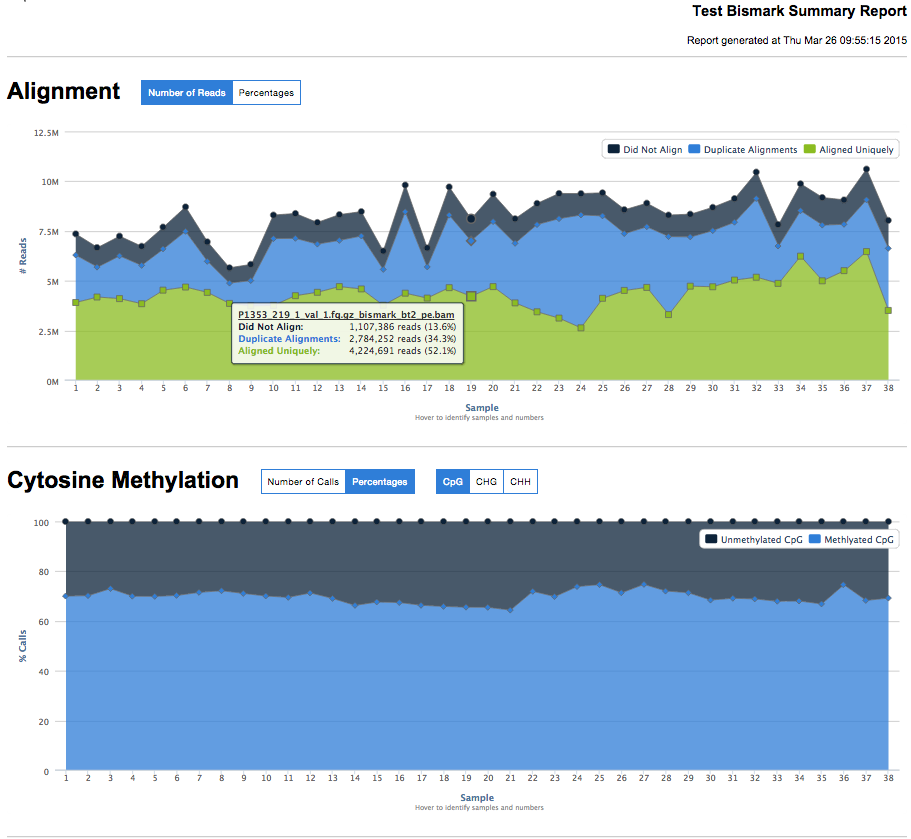
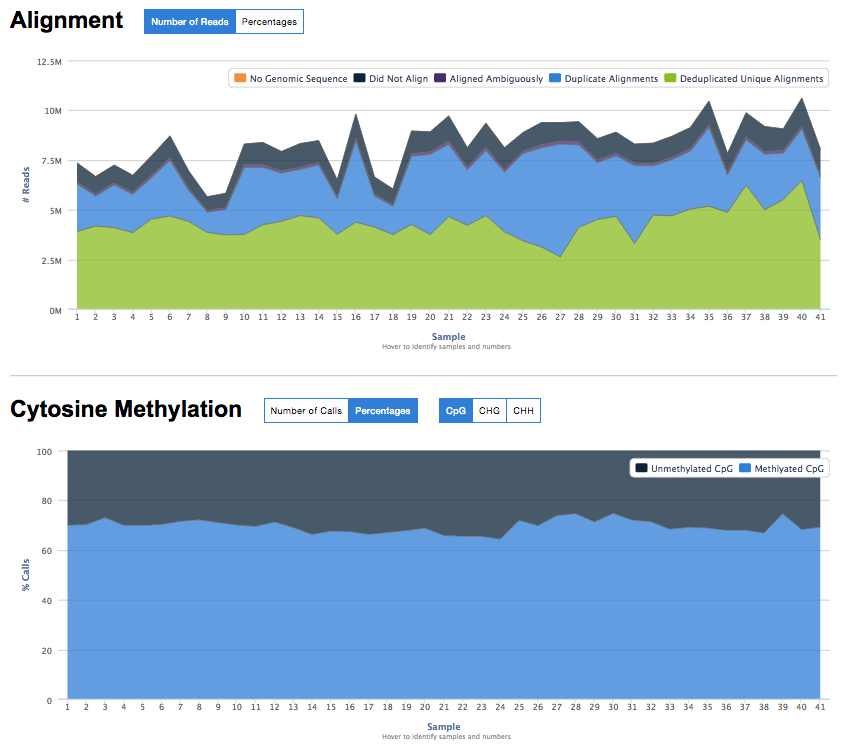
Updated bismark summary report examples

Changed region(s): [[0.0, 0.0, 1.0, 1.0], [0.0, 0.2749, 0.0309, 0.336], [0.0309, 0.1527, 0.0618, 0.1833]]

diff --git a/examples/bismark_summary_report.html b/examples/bismark_summary_report.html
@@ -2,7 +2,7 @@
 <html>
 <head>
 	<meta http-equiv="content-type" content="text/html; charset=UTF-8">
-	<title>Bismark Project Summary Report</title>
+	<title>Bismark Project Summary Report - Bismark Summary Report</title>
 	<style type="text/css">
 		body {
 			font-family: Arial, sans-serif;
@@ -11,7 +11,6 @@
 		}
 		.container {
 			margin:0 auto;
-			max-width:1200px;
 		}
 		.header h1,
 		.header img {
@@ -63,7 +62,7 @@
 			color:#999;
 		}
 
-		.switch_group {
+        .switch_group {
 			margin-left:20px;
 			display:inline-block;
 			line-height: 1em;
@@ -108,11 +107,11 @@
 		rn(e.points,function(s){var o=s.plotY,u=s.graphic;if(o!==W&&!isNaN(o)&&s.y!==null)i=s.shapeArgs,u?(pn(u),u.animate(t(i))):s.graphic=r[s.shapeType](i).attr(s.pointAttr[s.selected?"select":""]).add(e.group).shadow(n.shadow,null,n.stacking&&!n.borderRadius);else if(u)s.graphic=u.destroy()})},drawTracker:function(){var e=this,t=e.chart,n=t.pointer,r=e.options.cursor,i=r&&{cursor:r},s=function(n){var r=n.target,i;if(t.hoverSeries!==e)e.onMouseOver();for(;r&&!i;)i=r.point,r=r.parentNode;if(i!==W&&i!==t.hoverPoint)i.onMouseOver(n)};rn(e.points,function(e){if(e.graphic)e.graphic.element.point=e;if(e.dataLabel)e.dataLabel.element.point=e});e._hasTracking?e._hasTracking=!0:rn(e.trackerGroups,function(t){if(e[t]&&(e[t].addClass("highcharts-tracker").on("mouseover",s).on("mouseout",function(e){n.onTrackerMouseOut(e)}).css(i),mt))e[t].on("touchstart",s)})},alignDataLabel:function(e,n,r,i,s){var o=this.chart,u=o.inverted,a=e.dlBox||e.shapeArgs,f=e.below||e.plotY>p(this.translatedThreshold,o.plotSizeY),l=p(r.inside,!!this.options.stacking);if(a&&(i=t(a),u&&(i={x:o.plotWidth-i.y-i.height,y:o.plotHeight-i.x-i.width,width:i.height,height:i.width}),!l))u?(i.x+=f?0:i.width,i.width=0):(i.y+=f?i.height:0,i.height=0);r.align=p(r.align,!u||l?"center":f?"right":"left");r.verticalAlign=p(r.verticalAlign,u||l?"middle":f?"top":"bottom");En.prototype.alignDataLabel.call(this,e,n,r,i,s)},animate:function(e){var t=this.yAxis,n=this.options,r=this.chart.inverted,i={};if(ht)e?(i.scaleY=.001,e=Y(t.pos+t.len,G(t.pos,t.toPixels(n.threshold))),r?i.translateX=e-t.len:i.translateY=e,this.group.attr(i)):(i.scaleY=1,i[r?"translateX":"translateY"]=t.pos,this.group.animate(i,this.options.animation),this.animate=null)},remove:function(){var e=this,t=e.chart;t.hasRendered&&rn(t.series,function(t){if(t.type===e.type)t.isDirty=!0});En.prototype.remove.apply(e,arguments)}});Gt.column=gn;dn.bar=t(dn.column);yn=m(gn,{type:"bar",inverted:!0});Gt.bar=yn;dn.scatter=t(Yt,{lineWidth:0,tooltip:{headerFormat:'<span style="font-size: 10px; color:{series.color}">{series.name}</span><br/>',pointFormat:"x: <b>{point.x}</b><br/>y: <b>{point.y}</b><br/>",followPointer:!0},stickyTracking:!1});yn=m(En,{type:"scatter",sorted:!1,requireSorting:!1,noSharedTooltip:!0,trackerGroups:["markerGroup"],drawTracker:gn.prototype.drawTracker,setTooltipPoints:Nt});Gt.scatter=yn;dn.pie=t(Yt,{borderColor:"#FFFFFF",borderWidth:1,center:[null,null],clip:!1,colorByPoint:!0,dataLabels:{distance:30,enabled:!0,formatter:function(){return this.point.name}},ignoreHiddenPoint:!0,legendType:"point",marker:null,size:null,showInLegend:!1,slicedOffset:10,states:{hover:{brightness:.1,shadow:!1}},stickyTracking:!1,tooltip:{followPointer:!0}});Yt={type:"pie",isCartesian:!1,pointClass:m(wn,{init:function(){wn.prototype.init.apply(this,arguments);var t=this,n;if(t.y<0)t.y=null;e(t,{visible:t.visible!==!1,name:p(t.name,"Slice")});n=function(e){t.slice(e.type==="select")};an(t,"select",n);an(t,"unselect",n);return t},setVisible:function(e){var t=this,n=t.series,r=n.chart,i;t.visible=t.options.visible=e=e===W?!t.visible:e;n.options.data[nn(t,n.data)]=t.options;i=e?"show":"hide";rn(["graphic","dataLabel","connector","shadowGroup"],function(e){if(t[e])t[e][i]()});t.legendItem&&r.legend.colorizeItem(t,e);if(!n.isDirty&&n.options.ignoreHiddenPoint)n.isDirty=!0,r.redraw()},slice:function(e,t,n){var r=this.series;D(n,r.chart);p(t,!0);this.sliced=this.options.sliced=e=l(e)?e:!this.sliced;r.options.data[nn(this,r.data)]=this.options;e=e?this.slicedTranslation:{translateX:0,translateY:0};this.graphic.animate(e);this.shadowGroup&&this.shadowGroup.animate(e)}}),requireSorting:!1,noSharedTooltip:!0,trackerGroups:["group","dataLabelsGroup"],pointAttrToOptions:{stroke:"borderColor","stroke-width":"borderWidth",fill:"color"},getColor:Nt,animate:function(e){var t=this,n=t.points,r=t.startAngleRad;if(!e)rn(n,function(e){var n=e.graphic,e=e.shapeArgs;n&&(n.attr({r:t.center[3]/2,start:r,end:r}),n.animate({r:e.r,start:e.start,end:e.end},t.options.animation))}),t.animate=null},setData:function(e,t){En.prototype.setData.call(this,e,!1);this.processData();this.generatePoints();p(t,!0)&&this.chart.redraw()},generatePoints:function(){var e,t=0,n,r,i,s=this.options.ignoreHiddenPoint;En.prototype.generatePoints.call(this);n=this.points;r=n.length;for(e=0;e<r;e++)i=n[e],t+=s&&!i.visible?0:i.y;this.total=t;for(e=0;e<r;e++)i=n[e],i.percentage=i.y/t*100,i.total=t},getCenter:function(){var e=this.options,t=this.chart,r=2*(e.slicedOffset||0),i,s=t.plotWidth-2*r,o=t.plotHeight-2*r,t=e.center,e=[p(t[0],"50%"),p(t[1],"50%"),e.size||"100%",e.innerSize||0],u=Y(s,o),a;return un(e,function(e,t){a=/%$/.test(e);i=t<2||t===2&&a;return(a?[s,o,u,u][t]*n(e)/100:e)+(i?r:0)})},translate:function(e){this.generatePoints();var t=0,n=this.options,r=n.slicedOffset,i=r+n.borderWidth,s,o,u,a=this.startAngleRad=nt/180*((n.startAngle||0)%360-90),f=this.points,l=2*nt,c=n.dataLabels.distance,n=n.ignoreHiddenPoint,h,p=f.length,d;if(!e)this.center=e=this.getCenter();this.getX=function(t,n){u=$.asin((t-e[1])/(e[2]/2+c));return e[0]+(n?-1:1)*et(u)*(e[2]/2+c)};for(h=0;h<p;h++){d=f[h];s=J((a+t*l)*1e3)/1e3;if(!n||d.visible)t+=d.percentage/100;o=J((a+t*l)*1e3)/1e3;d.shapeType="arc";d.shapeArgs={x:e[0],y:e[1],r:e[2]/2,innerR:e[3]/2,start:s,end:o};u=(o+s)/2;u>.75*l&&(u-=2*nt);d.slicedTranslation={translateX:J(et(u)*r),translateY:J(tt(u)*r)};s=et(u)*e[2]/2;o=tt(u)*e[2]/2;d.tooltipPos=[e[0]+s*.7,e[1]+o*.7];d.half=u<l/4?0:1;d.angle=u;i=Y(i,c/2);d.labelPos=[e[0]+s+et(u)*c,e[1]+o+tt(u)*c,e[0]+s+et(u)*i,e[1]+o+tt(u)*i,e[0]+s,e[1]+o,c<0?"center":d.half?"right":"left",u]}this.setTooltipPoints()},drawGraph:null,drawPoints:function(){var t=this,n=t.chart.renderer,r,i,s=t.options.shadow,o,u;if(s&&!t.shadowGroup)t.shadowGroup=n.g("shadow").add(t.group);rn(t.points,function(a){i=a.graphic;u=a.shapeArgs;o=a.shadowGroup;if(s&&!o)o=a.shadowGroup=n.g("shadow").add(t.shadowGroup);r=a.sliced?a.slicedTranslation:{translateX:0,translateY:0};o&&o.attr(r);i?i.animate(e(u,r)):a.graphic=i=n.arc(u).setRadialReference(t.center).attr(a.pointAttr[a.selected?"select":""]).attr({"stroke-linejoin":"round"}).attr(r).add(t.group).shadow(s,o);a.visible===!1&&a.setVisible(!1)})},drawDataLabels:function(){var e=this,t=e.data,n,r=e.chart,i=e.options.dataLabels,s=p(i.connectorPadding,10),o=p(i.connectorWidth,1),u=r.plotWidth,r=r.plotHeight,a,f,l=p(i.softConnector,!0),c=i.distance,h=e.center,d=h[2]/2,v=h[1],m=c>0,g,y,b,w,E=[[],[]],S,x,T,N,C,k=[0,0,0,0],A=function(e,t){return t.y-e.y},O=function(e,t){e.sort(function(e,n){return e.angle!==void 0&&(n.angle-e.angle)*t})};if(e.visible&&(i.enabled||e._hasPointLabels)){En.prototype.drawDataLabels.apply(e);rn(t,function(e){e.dataLabel&&E[e.half].push(e)});for(N=0;!w&&t[N];)w=t[N]&&t[N].dataLabel&&(t[N].dataLabel.getBBox().height||21),N++;for(N=2;N--;){var t=[],M=[],_=E[N],D=_.length,P;O(_,N-.5);if(c>0){for(C=v-d-c;C<=v+d+c;C+=w)t.push(C);y=t.length;if(D>y){n=[].concat(_);n.sort(A);for(C=D;C--;)n[C].rank=C;for(C=D;C--;)_[C].rank>=y&&_.splice(C,1);D=_.length}for(C=0;C<D;C++){n=_[C];b=n.labelPos;n=9999;var H,B;for(B=0;B<y;B++)H=Z(t[B]-b[1]),H<n&&(n=H,P=B);if(P<C&&t[C]!==null)P=C;else for(y<D-C+P&&t[C]!==null&&(P=y-D+C);t[P]===null;)P++;M.push({i:P,y:t[P]});t[P]=null}M.sort(A)}for(C=0;C<D;C++){n=_[C];b=n.labelPos;g=n.dataLabel;T=n.visible===!1?"hidden":"visible";n=b[1];if(c>0){if(y=M.pop(),P=y.i,x=y.y,n>x&&t[P+1]!==null||n<x&&t[P-1]!==null)x=n}else x=n;S=i.justify?h[0]+(N?-1:1)*(d+c):e.getX(P===0||P===t.length-1?n:x,N);g._attr={visibility:T,align:b[6]};g._pos={x:S+i.x+({left:s,right:-s}[b[6]]||0),y:x+i.y-10};g.connX=S;g.connY=x;if(this.options.size===null)y=g.width,S-y<s?k[3]=G(J(y-S+s),k[3]):S+y>u-s&&(k[1]=G(J(S+y-u+s),k[1])),x-w/2<0?k[0]=G(J(-x+w/2),k[0]):x+w/2>r&&(k[2]=G(J(x+w/2-r),k[2]))}}if(L(k)===0||this.verifyDataLabelOverflow(k))this.placeDataLabels(),m&&o&&rn(this.points,function(t){a=t.connector;b=t.labelPos;if((g=t.dataLabel)&&g._pos)T=g._attr.visibility,S=g.connX,x=g.connY,f=l?["M",S+(b[6]==="left"?5:-5),x,"C",S,x,2*b[2]-b[4],2*b[3]-b[5],b[2],b[3],"L",b[4],b[5]]:["M",S+(b[6]==="left"?5:-5),x,"L",b[2],b[3],"L",b[4],b[5]],a?(a.animate({d:f}),a.attr("visibility",T)):t.connector=a=e.chart.renderer.path(f).attr({"stroke-width":o,stroke:i.connectorColor||t.color||"#606060",visibility:T}).add(e.group);else if(a)t.connector=a.destroy()})}},verifyDataLabelOverflow:function(e){var t=this.center,n=this.options,r=n.center,i=n=n.minSize||80,s;r[0]!==null?i=G(t[2]-G(e[1],e[3]),n):(i=G(t[2]-e[1]-e[3],n),t[0]+=(e[3]-e[1])/2);r[1]!==null?i=G(Y(i,t[2]-G(e[0],e[2])),n):(i=G(Y(i,t[2]-e[0]-e[2]),n),t[1]+=(e[0]-e[2])/2);i<t[2]?(t[2]=i,this.translate(t),rn(this.points,function(e){if(e.dataLabel)e.dataLabel._pos=null}),this.drawDataLabels()):s=!0;return s},placeDataLabels:function(){rn(this.points,function(e){var e=e.dataLabel,t;if(e)(t=e._pos)?(e.attr(e._attr),e[e.moved?"animate":"attr"](t),e.moved=!0):e&&e.attr({y:-999})})},alignDataLabel:Nt,drawTracker:gn.prototype.drawTracker,drawLegendSymbol:Zt.prototype.drawLegendSymbol,getSymbol:Nt};Yt=m(En,Yt);Gt.pie=Yt;e(Highcharts,{Axis:I,Chart:z,Color:vn,Legend:U,Pointer:R,Point:wn,Tick:B,Tooltip:q,Renderer:vt,Series:En,SVGElement:H,SVGRenderer:mn,arrayMin:k,arrayMax:L,charts:Ct,dateFormat:Et,format:w,pathAnim:xt,getOptions:function(){return wt},hasBidiBug:pt,isTouchDevice:lt,numberFormat:g,seriesTypes:Gt,setOptions:function(e){wt=t(wt,e);P();return wt},addEvent:an,removeEvent:fn,createElement:v,discardElement:O,css:d,each:rn,extend:e,map:un,merge:t,pick:p,splat:h,extendClass:m,pInt:n,wrap:b,svg:ht,canvas:dt,vml:!ht&&!dt,product:"Highcharts",version:"3.0.4"})})()
 	</script>
 	<script type='text/javascript'>
-		// From http://stackoverflow.com/questions/2901102/how-to-print-a-number-with-commas-as-thousands-separators-in-javascript
+    	// From http://stackoverflow.com/questions/2901102/how-to-print-a-number-with-commas-as-thousands-separators-in-javascript
     	function numberWithCommas(x) {
     		return x.toString().replace(/\B(?=(\d{3})+(?!\d))/g, ",");
     	}
-
+    	// From http://stackoverflow.com/questions/18485939/highcharts-change-column-stacking-on-click/18486302
     	$(function () {
     		$('.switch_group button').click(function(e){
     			e.preventDefault();
@@ -149,15 +148,15 @@
 				}
     		});
 
-
-			// Plot setup
-			var plot_colors = ['#0d233a', '#2f7ed8', '#8bbc21', '#910000', '#1aadce', '#492970', '#f28f43', '#77a1e5', '#c42525', '#a6c96a'];
-			var num_samples = 38;
+		    // Plot setup
+			var alignment_plot_colors = ['#f28f43', '#0d233a', '#492970', '#2f7ed8', '#8bbc21'];
+			var meth_plot_colors = ['#0d233a', '#2f7ed8', '#8bbc21', '#1aadce', '#910000', '#492970'];
+			var num_samples = 41;
 
 			// Alignment Plot
 			var aln_x_index = num_samples * -1;
 			var alignment_plot_options = {
-				colors: plot_colors,
+				colors: alignment_plot_colors,
 				chart: {
 					type: 'area',
 					events: {
@@ -184,7 +183,7 @@
 							return aln_x_index;
 						}
 					},
-					categories: [ 'P1000_103_1_val_1.fq.gz_bismark_bt2_pe.bam', 'P1000_104_1_val_1.fq.gz_bismark_bt2_pe.bam', 'P1000_105_1_val_1.fq.gz_bismark_bt2_pe.bam', 'P1000_106_1_val_1.fq.gz_bismark_bt2_pe.bam', 'P1000_107_1_val_1.fq.gz_bismark_bt2_pe.bam', 'P1000_108_1_val_1.fq.gz_bismark_bt2_pe.bam', 'P1000_110_1_val_1.fq.gz_bismark_bt2_pe.bam', 'P1000_112_1_val_1.fq.gz_bismark_bt2_pe.bam', 'P1000_113_1_val_1.fq.gz_bismark_bt2_pe.bam', 'P1000_114_1_val_1.fq.gz_bismark_bt2_pe.bam', 'P1000_117_1_val_1.fq.gz_bismark_bt2_pe.bam', 'P1000_120_1_val_1.fq.gz_bismark_bt2_pe.bam', 'P1000_121_1_val_1.fq.gz_bismark_bt2_pe.bam', 'P1000_201_1_val_1.fq.gz_bismark_bt2_pe.bam', 'P1000_202_1_val_1.fq.gz_bismark_bt2_pe.bam', 'P1000_203_1_val_1.fq.gz_bismark_bt2_pe.bam', 'P1000_204_1_val_1.fq.gz_bismark_bt2_pe.bam', 'P1000_217_1_val_1.fq.gz_bismark_bt2_pe.bam', 'P1000_219_1_val_1.fq.gz_bismark_bt2_pe.bam', 'P1000_222_1_val_1.fq.gz_bismark_bt2_pe.bam', 'P1000_223_1_val_1.fq.gz_bismark_bt2_pe.bam', 'P1000_301_1_val_1.fq.gz_bismark_bt2_pe.bam', 'P1000_302_1_val_1.fq.gz_bismark_bt2_pe.bam', 'P1000_305_1_val_1.fq.gz_bismark_bt2_pe.bam', 'P1000_306_1_val_1.fq.gz_bismark_bt2_pe.bam', 'P1000_307_1_val_1.fq.gz_bismark_bt2_pe.bam', 'P1000_308_1_val_1.fq.gz_bismark_bt2_pe.bam', 'P1000_309_1_val_1.fq.gz_bismark_bt2_pe.bam', 'P1000_310_1_val_1.fq.gz_bismark_bt2_pe.bam', 'P1000_403_1_val_1.fq.gz_bismark_bt2_pe.bam', 'P1000_404_1_val_1.fq.gz_bismark_bt2_pe.bam', 'P1000_405_1_val_1.fq.gz_bismark_bt2_pe.bam', 'P1000_406_1_val_1.fq.gz_bismark_bt2_pe.bam', 'P1000_407_1_val_1.fq.gz_bismark_bt2_pe.bam', 'P1000_411_1_val_1.fq.gz_bismark_bt2_pe.bam', 'P1000_501_1_val_1.fq.gz_bismark_bt2_pe.bam', 'P1000_603_1_val_1.fq.gz_bismark_bt2_pe.bam', 'P1000_604_1_val_1.fq.gz_bismark_bt2_pe.bam',  ]
+					categories: [ 'P1000_103_1_val_1.fq.gz_bismark_bt2_pe.bam','P1000_104_1_val_1.fq.gz_bismark_bt2_pe.bam','P1000_105_1_val_1.fq.gz_bismark_bt2_pe.bam','P1000_106_1_val_1.fq.gz_bismark_bt2_pe.bam','P1000_107_1_val_1.fq.gz_bismark_bt2_pe.bam','P1000_108_1_val_1.fq.gz_bismark_bt2_pe.bam','P1000_110_1_val_1.fq.gz_bismark_bt2_pe.bam','P1000_112_1_val_1.fq.gz_bismark_bt2_pe.bam','P1000_113_1_val_1.fq.gz_bismark_bt2_pe.bam','P1000_114_1_val_1.fq.gz_bismark_bt2_pe.bam','P1000_117_1_val_1.fq.gz_bismark_bt2_pe.bam','P1000_120_1_val_1.fq.gz_bismark_bt2_pe.bam','P1000_121_1_val_1.fq.gz_bismark_bt2_pe.bam','P1000_201_1_val_1.fq.gz_bismark_bt2_pe.bam','P1000_202_1_val_1.fq.gz_bismark_bt2_pe.bam','P1000_203_1_val_1.fq.gz_bismark_bt2_pe.bam','P1000_204_1_val_1.fq.gz_bismark_bt2_pe.bam','P1000_209_1_val_1.fq.gz_bismark_bt2_pe.bam','P1000_212_1_val_1.fq.gz_bismark_bt2_pe.bam','P1000_215_1_val_1.fq.gz_bismark_bt2_pe.bam','P1000_217_1_val_1.fq.gz_bismark_bt2_pe.bam','P1000_219_1_val_1.fq.gz_bismark_bt2_pe.bam','P1000_222_1_val_1.fq.gz_bismark_bt2_pe.bam','P1000_223_1_val_1.fq.gz_bismark_bt2_pe.bam','P1000_301_1_val_1.fq.gz_bismark_bt2_pe.bam','P1000_302_1_val_1.fq.gz_bismark_bt2_pe.bam','P1000_305_1_val_1.fq.gz_bismark_bt2_pe.bam','P1000_306_1_val_1.fq.gz_bismark_bt2_pe.bam','P1000_307_1_val_1.fq.gz_bismark_bt2_pe.bam','P1000_308_1_val_1.fq.gz_bismark_bt2_pe.bam','P1000_309_1_val_1.fq.gz_bismark_bt2_pe.bam','P1000_310_1_val_1.fq.gz_bismark_bt2_pe.bam','P1000_403_1_val_1.fq.gz_bismark_bt2_pe.bam','P1000_404_1_val_1.fq.gz_bismark_bt2_pe.bam','P1000_405_1_val_1.fq.gz_bismark_bt2_pe.bam','P1000_406_1_val_1.fq.gz_bismark_bt2_pe.bam','P1000_407_1_val_1.fq.gz_bismark_bt2_pe.bam','P1000_411_1_val_1.fq.gz_bismark_bt2_pe.bam','P1000_501_1_val_1.fq.gz_bismark_bt2_pe.bam','P1000_603_1_val_1.fq.gz_bismark_bt2_pe.bam','P1000_604_1_val_1.fq.gz_bismark_bt2_pe.bam' ]
 				},
 				credits: {
 			        text: 'Hover to identify samples and numbers',
@@ -231,58 +230,66 @@
 						lineColor: '#666666',
 						lineWidth: 1,
 						marker: {
-						    lineWidth: 1,
-						    lineColor: '#666666'
+						    enabled: false
 						}
 					}
 				},
 				series: [
+                    {
+                        name: 'No Genomic Sequence',
+                        data: [ 1,0,0,0,0,0,0,0,0,0,0,0,0,4,3,0,0,1,0,1,0,0,3,0,1,2,0,0,2,0,5,1,1,0,0,4,1,1,0,0,4 ]
+                    },
     				{
                         name: 'Did Not Align',
-                        data: [ 1060876, 985305, 988779, 961433, 1098765, 1226721, 977052, 768225, 814312, 1179660, 1247105, 1083705, 1296062, 1221785, 929001, 1341168, 957104, 1417730, 1107386, 1377862, 1234245, 1060883, 1265900, 1073625, 1160754, 1200216, 1181771, 1081505, 1141662, 1170107, 1184717, 1329465, 1081784, 1353462, 1385600, 1225887, 1544148, 1404341,  ]
+                        data: [ 948794,872389,884793,852803,970257,1095822,871476,686439,713698,1027234,1104668,967665,1169247,1098710,834330,1193492,846137,773523,1127599,995216,1247942,967255,1210691,1101486,930412,1116688,930786,1005915,1068448,1044542,946321,1015377,1046004,1054743,1179203,949589,1192043,1250609,1082200,1388670,1290015 ]
+                    },
+                    {
+                        name: 'Aligned Ambiguously',
+                        data: [ 112081,112916,103986,108630,128508,130899,105576,81786,100614,152426,142437,116040,126815,123071,94668,147676,110967,88627,135746,134040,169788,140131,167168,132759,130470,149210,142839,154839,131766,137229,135179,126284,124102,129974,150262,132191,161418,134990,143687,155478,114322 ]
                     },
     				{
     					name: 'Duplicate Alignments',
-    					data: [ 2384869, 1502454, 2147431, 1922112, 2067793, 2800155, 1561478, 1021310, 1270837, 3354318, 2880144, 2423561, 2318096, 2658882, 1797362, 4088442, 1562257, 3638537, 2784252, 3264400, 2991741, 4379509, 4990223, 5665362, 4135943, 2852387, 3045535, 3915113, 2473298, 2817166, 2908865, 3949446, 1876896, 2279853, 2796319, 2327653, 2598629, 3115274,  ]
+    					data: [ 2384869,1502454,2147431,1922112,2067793,2800155,1561478,1021310,1270837,3354318,2880144,2423561,2318096,2658882,1797362,4088442,1562257,1425015,3432464,4028665,3638537,2784252,3264400,2991741,4379509,4990223,5665362,4135943,2852387,3045535,3915113,2473298,2817166,2908865,3949446,1876896,2279853,2796319,2327653,2598629,3115274 ]
     				},
                     {
-                        name: 'Aligned Uniquely',
-                        data: [ 3914818, 4188842, 4110602, 3855725, 4538471, 4690366, 4422743, 3870208, 3747615, 3770463, 4256724, 4426516, 4714957, 4597155, 3777009, 4381495, 4137191, 4662118, 4224691, 4713598, 3894994, 3449890, 3133187, 2643214, 4126531, 4522742, 4673621, 3310159, 4735169, 4704641, 5040151, 5182729, 4874145, 6243070, 5004145, 5513937, 6470858, 3518296,  ]
+                        name: 'Deduplicated Unique Alignments',
+                        data: [ 3914818,4188842,4110602,3855725,4538471,4690366,4422743,3870208,3747615,3770463,4256724,4426516,4714957,4597155,3777009,4381495,4137191,3758503,4265043,3758274,4662118,4224691,4713598,3894994,3449890,3133187,2643214,4126531,4522742,4673621,3310159,4735169,4704641,5040151,5182729,4874145,6243070,5004145,5513937,6470858,3518296 ]
 					}
 				]
-			}
+            }
 			$('#alignment').highcharts(alignment_plot_options);
 
-			// Methylated Calls Plot
+		    // Methylated Calls Plot
 			var meth_calls_data = {
 				CpG: [{
 					name: 'Unmethylated CpG',
-					data: [ 2081204, 2240939, 1978620, 2013813, 2494434, 2576737, 2235253, 1896523, 1846000, 1995536, 2408910, 2199366, 2707188, 2796658, 2310740, 2685617, 2415356, 3061424, 2640533, 3089755, 2655686, 1601557, 1752993, 1167502, 1697956, 2285112, 2066834, 1592496, 2281929, 2551880, 2756364, 2768510, 2656116, 3437327, 3065767, 2359094, 3632386, 1869392,  ]
+					data: [ 2081204,2240939,1978620,2013813,2494434,2576737,2235253,1896523,1846000,1995536,2408910,2199366,2707188,2796658,2310740,2685617,2415356,2236028,2546597,2048421,3061424,2640533,3089755,2655686,1601557,1752993,1167502,1697956,2285112,2066834,1592496,2281929,2551880,2756364,2768510,2656116,3437327,3065767,2359094,3632386,1869392 ]
 				},
 	            {
 	                name: 'Methlyated CpG',
-	                data: [ 4869533, 5290054, 5366855, 4696903, 5803435, 6107180, 5628631, 4927604, 4541496, 4674195, 5503843, 5469410, 6049070, 5507826, 4835765, 5569088, 4763758, 5917618, 5034166, 5873958, 4812100, 4107304, 4063157, 3302841, 5004746, 5698450, 6124063, 4110401, 5701413, 5536238, 6187394, 6135417, 5643193, 7327347, 6191526, 6929243, 7828515, 4209410,  ]
+	                data: [ 4869533,5290054,5366855,4696903,5803435,6107180,5628631,4927604,4541496,4674195,5503843,5469410,6049070,5507826,4835765,5569088,4763758,4553885,5382763,4527476,5917618,5034166,5873958,4812100,4107304,4063157,3302841,5004746,5698450,6124063,4110401,5701413,5536238,6187394,6135417,5643193,7327347,6191526,6929243,7828515,4209410 ]
 	            }],
 				CHG: [{
 					name: 'Unmethylated CHG',
-					data: [ 30113795, 32558385, 32235437, 29002381, 35611270, 37049083, 34044778, 29914079, 27846696, 27635244, 33446574, 33939561, 36644229, 35753100, 30162257, 34908022, 31424116, 37638189, 32643102, 37665357, 30568622, 25022757, 23842001, 19547326, 30497171, 34338832, 37653614, 25472054, 34812008, 35711688, 39264126, 39359627, 36943971, 47456532, 39462622, 41789966, 49966484, 26938594,  ]
+					data:  [ 30113795,32558385,32235437,29002381,35611270,37049083,34044778,29914079,27846696,27635244,33446574,33939561,36644229,35753100,30162257,34908022,31424116,29154332,33771512,28712359,37638189,32643102,37665357,30568622,25022757,23842001,19547326,30497171,34338832,37653614,25472054,34812008,35711688,39264126,39359627,36943971,47456532,39462622,41789966,49966484,26938594 ]
 				},
 				{
 		            name: 'Methlyated CHG',
-		            data: [ 612003, 654783, 640414, 573379, 700773, 721852, 684087, 601307, 541359, 541688, 639677, 634020, 681471, 686967, 579560, 715125, 648659, 726162, 622643, 738484, 644788, 503785, 467774, 378462, 591106, 662708, 739803, 515983, 690498, 733785, 779418, 789873, 739715, 1008747, 797000, 834172, 983097, 518629,  ]
+		            data:  [ 612003,654783,640414,573379,700773,721852,684087,601307,541359,541688,639677,634020,681471,686967,579560,715125,648659,570319,653934,568562,726162,622643,738484,644788,503785,467774,378462,591106,662708,739803,515983,690498,733785,779418,789873,739715,1008747,797000,834172,983097,518629 ]
 		        }],
 				CHH: [{
 					name: 'Unmethylated CHH',
-					data: [ 97900550, 104908998, 103491650, 93864386, 112300360, 118297058, 109404135, 96088615, 89034776, 87883897, 106401150, 108242610, 116006214, 113944516, 95238472, 111285858, 101192286, 119908386, 102999122, 120269140, 97110156, 79137465, 75252420, 61890770, 97407134, 108907807, 122786716, 82817330, 111712388, 114209740, 124994892, 125174797, 118439261, 152293739, 124761807, 133578569, 159061380, 86783601,  ]
+					data:  [ 97900550,104908998,103491650,93864386,112300360,118297058,109404135,96088615,89034776,87883897,106401150,108242610,116006214,113944516,95238472,111285858,101192286,93951966,108072538,91310993,119908386,102999122,120269140,97110156,79137465,75252420,61890770,97407134,108907807,122786716,82817330,111712388,114209740,124994892,125174797,118439261,152293739,124761807,133578569,159061380,86783601 ]
 				},
 				{
 		            name: 'Methlyated CHH',
-		            data: [ 1899476, 2013879, 1969159, 1779172, 2104844, 2189595, 2099141, 1849151, 1662983, 1634981, 1945018, 1940955, 2059365, 2109956, 1770470, 2210579, 2059460, 2211439, 1879864, 2255589, 1970571, 1520843, 1403595, 1136507, 1797832, 2009555, 2314809, 1600595, 2127352, 2293762, 2403619, 2447315, 2302828, 3174627, 2449199, 2551919, 3031199, 1613247,  ]
+		            data:  [ 1899476,2013879,1969159,1779172,2104844,2189595,2099141,1849151,1662983,1634981,1945018,1940955,2059365,2109956,1770470,2210579,2059460,1789457,2013263,1748234,2211439,1879864,2255589,1970571,1520843,1403595,1136507,1797832,2009555,2314809,1600595,2127352,2293762,2403619,2447315,2302828,3174627,2449199,2551919,3031199,1613247 ]
 		        }]
 			};
+
 			var meth_x_index = num_samples * -1;
 			var meth_plot_options = {
-				colors: plot_colors,
+				colors: meth_plot_colors,
 				chart: {
 					type: 'area',
 					events: {
@@ -309,7 +316,7 @@
 							return meth_x_index;
 						}
 					},
-					categories: [ 'P1000_103_1_val_1.fq.gz_bismark_bt2_pe.bam', 'P1000_104_1_val_1.fq.gz_bismark_bt2_pe.bam', 'P1000_105_1_val_1.fq.gz_bismark_bt2_pe.bam', 'P1000_106_1_val_1.fq.gz_bismark_bt2_pe.bam', 'P1000_107_1_val_1.fq.gz_bismark_bt2_pe.bam', 'P1000_108_1_val_1.fq.gz_bismark_bt2_pe.bam', 'P1000_110_1_val_1.fq.gz_bismark_bt2_pe.bam', 'P1000_112_1_val_1.fq.gz_bismark_bt2_pe.bam', 'P1000_113_1_val_1.fq.gz_bismark_bt2_pe.bam', 'P1000_114_1_val_1.fq.gz_bismark_bt2_pe.bam', 'P1000_117_1_val_1.fq.gz_bismark_bt2_pe.bam', 'P1000_120_1_val_1.fq.gz_bismark_bt2_pe.bam', 'P1000_121_1_val_1.fq.gz_bismark_bt2_pe.bam', 'P1000_201_1_val_1.fq.gz_bismark_bt2_pe.bam', 'P1000_202_1_val_1.fq.gz_bismark_bt2_pe.bam', 'P1000_203_1_val_1.fq.gz_bismark_bt2_pe.bam', 'P1000_204_1_val_1.fq.gz_bismark_bt2_pe.bam', 'P1000_217_1_val_1.fq.gz_bismark_bt2_pe.bam', 'P1000_219_1_val_1.fq.gz_bismark_bt2_pe.bam', 'P1000_222_1_val_1.fq.gz_bismark_bt2_pe.bam', 'P1000_223_1_val_1.fq.gz_bismark_bt2_pe.bam', 'P1000_301_1_val_1.fq.gz_bismark_bt2_pe.bam', 'P1000_302_1_val_1.fq.gz_bismark_bt2_pe.bam', 'P1000_305_1_val_1.fq.gz_bismark_bt2_pe.bam', 'P1000_306_1_val_1.fq.gz_bismark_bt2_pe.bam', 'P1000_307_1_val_1.fq.gz_bismark_bt2_pe.bam', 'P1000_308_1_val_1.fq.gz_bismark_bt2_pe.bam', 'P1000_309_1_val_1.fq.gz_bismark_bt2_pe.bam', 'P1000_310_1_val_1.fq.gz_bismark_bt2_pe.bam', 'P1000_403_1_val_1.fq.gz_bismark_bt2_pe.bam', 'P1000_404_1_val_1.fq.gz_bismark_bt2_pe.bam', 'P1000_405_1_val_1.fq.gz_bismark_bt2_pe.bam', 'P1000_406_1_val_1.fq.gz_bismark_bt2_pe.bam', 'P1000_407_1_val_1.fq.gz_bismark_bt2_pe.bam', 'P1000_411_1_val_1.fq.gz_bismark_bt2_pe.bam', 'P1000_501_1_val_1.fq.gz_bismark_bt2_pe.bam', 'P1000_603_1_val_1.fq.gz_bismark_bt2_pe.bam', 'P1000_604_1_val_1.fq.gz_bismark_bt2_pe.bam',  ]
+					categories: [ 'P1000_103_1_val_1.fq.gz_bismark_bt2_pe.bam','P1000_104_1_val_1.fq.gz_bismark_bt2_pe.bam','P1000_105_1_val_1.fq.gz_bismark_bt2_pe.bam','P1000_106_1_val_1.fq.gz_bismark_bt2_pe.bam','P1000_107_1_val_1.fq.gz_bismark_bt2_pe.bam','P1000_108_1_val_1.fq.gz_bismark_bt2_pe.bam','P1000_110_1_val_1.fq.gz_bismark_bt2_pe.bam','P1000_112_1_val_1.fq.gz_bismark_bt2_pe.bam','P1000_113_1_val_1.fq.gz_bismark_bt2_pe.bam','P1000_114_1_val_1.fq.gz_bismark_bt2_pe.bam','P1000_117_1_val_1.fq.gz_bismark_bt2_pe.bam','P1000_120_1_val_1.fq.gz_bismark_bt2_pe.bam','P1000_121_1_val_1.fq.gz_bismark_bt2_pe.bam','P1000_201_1_val_1.fq.gz_bismark_bt2_pe.bam','P1000_202_1_val_1.fq.gz_bismark_bt2_pe.bam','P1000_203_1_val_1.fq.gz_bismark_bt2_pe.bam','P1000_204_1_val_1.fq.gz_bismark_bt2_pe.bam','P1000_209_1_val_1.fq.gz_bismark_bt2_pe.bam','P1000_212_1_val_1.fq.gz_bismark_bt2_pe.bam','P1000_215_1_val_1.fq.gz_bismark_bt2_pe.bam','P1000_217_1_val_1.fq.gz_bismark_bt2_pe.bam','P1000_219_1_val_1.fq.gz_bismark_bt2_pe.bam','P1000_222_1_val_1.fq.gz_bismark_bt2_pe.bam','P1000_223_1_val_1.fq.gz_bismark_bt2_pe.bam','P1000_301_1_val_1.fq.gz_bismark_bt2_pe.bam','P1000_302_1_val_1.fq.gz_bismark_bt2_pe.bam','P1000_305_1_val_1.fq.gz_bismark_bt2_pe.bam','P1000_306_1_val_1.fq.gz_bismark_bt2_pe.bam','P1000_307_1_val_1.fq.gz_bismark_bt2_pe.bam','P1000_308_1_val_1.fq.gz_bismark_bt2_pe.bam','P1000_309_1_val_1.fq.gz_bismark_bt2_pe.bam','P1000_310_1_val_1.fq.gz_bismark_bt2_pe.bam','P1000_403_1_val_1.fq.gz_bismark_bt2_pe.bam','P1000_404_1_val_1.fq.gz_bismark_bt2_pe.bam','P1000_405_1_val_1.fq.gz_bismark_bt2_pe.bam','P1000_406_1_val_1.fq.gz_bismark_bt2_pe.bam','P1000_407_1_val_1.fq.gz_bismark_bt2_pe.bam','P1000_411_1_val_1.fq.gz_bismark_bt2_pe.bam','P1000_501_1_val_1.fq.gz_bismark_bt2_pe.bam','P1000_603_1_val_1.fq.gz_bismark_bt2_pe.bam','P1000_604_1_val_1.fq.gz_bismark_bt2_pe.bam' ]
 				},
 				credits: {
 			        text: 'Hover to identify samples and numbers',
@@ -359,8 +366,7 @@
 						lineColor: '#666666',
 						lineWidth: 1,
 						marker: {
-						    lineWidth: 1,
-						    lineColor: '#666666'
+						    enabled: false
 						}
 					}
 				},
@@ -374,8 +380,8 @@
[1 lines of base64/hex data omitted]
 		<h1>Bismark Project Summary Report</h1>
 		<div class="subtitle">
-			<h3>Test Bismark Summary Report</h3>
-			<p>Report generated at Thu Mar 26 09:55:15 2015</p>
+			<h3>Bismark Summary Report</h3>
+			<p>Report generated at Fri Jun 26 09:15:32 2015</p>
 		</div>
 	</div>
 	<hr>
@@ -404,7 +410,7 @@
 	<hr>
 	<footer>
 		<p>Analysis produced by <a href="http://www.bioinformatics.babraham.ac.uk/projects/bismark/"><strong>Bismark</strong></a> (version v0.13.0) - a tool to map bisulfite converted sequence reads and determine cytosine methylation states</p>
-		<p>Report graphs rendered using <a href="http://jquery.com/">jQuery</a> and <a href="http://www.highcharts.com/">Highcharts</a>. Page design by <a href="http://phil.ewels.co.uk/">Phil Ewels.</a></p>
+		<p>Report graphs rendered using <a href="http://jquery.com/">jQuery</a> and <a href="http://www.highcharts.com/">Highcharts</a>. Summary script and page design by <a href="http://phil.ewels.co.uk/">Phil Ewels.</a></p>
 	</footer>
 </div>
 </body>
